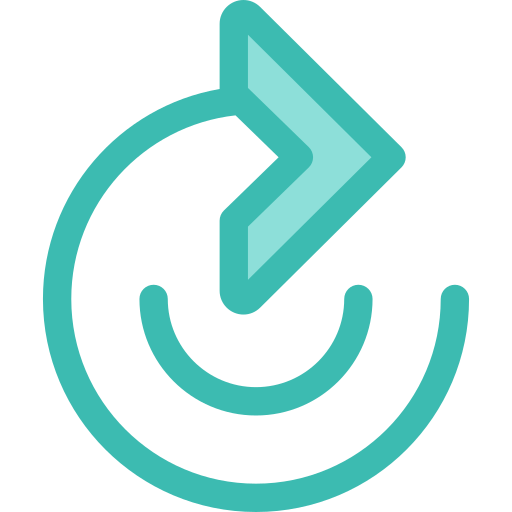
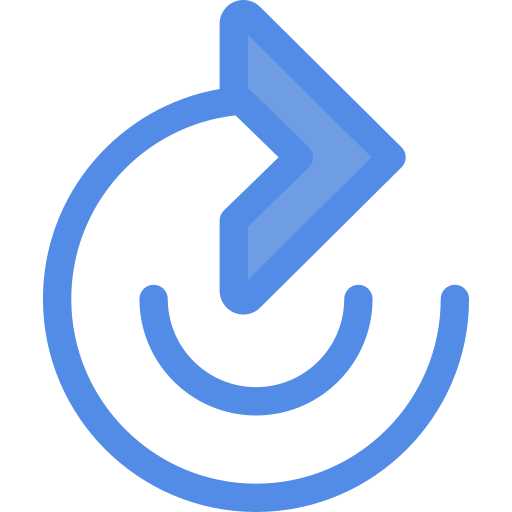
raise ticket update

Changed region(s): [[0.0625, 0.0, 0.9375, 1.0], [0.25, 0.5312, 0.75, 0.8125]]

diff --git a/templates/agent/client/order-page.html b/templates/agent/client/order-page.html
@@ -1199,23 +1199,42 @@
         {% endfor %}
         </div><!--right-bgwrapper--> 
 
-        <!-- RE-ORDER -->
+        <!-- raise ticket -->
         {% if order.order_status == 'ORDER_CLOSED' %}
             <br>
             <div class="order-card-column whitebg green-border clickable-cursor duplicate_order" data-id="{{order.evaluation.id}}"><!--order-card-column-->
                 <div class="card-innerwrapper"><!--card-innerwrapper-->
-                <div class="column-left"><img src="{% static "/files/images/card-reorder-icon.png" %}"></div>
+                <div class="column-left"><img src="{% static "/files/images/card-ticket-icon.png" %}"></div>
                 <div class="column-right"><!--column-right-->
                 <!-- <h1>Click To View</h1> -->
-                <h2 class="green-text"><label>Re-Order<span>
+                <h2 class="green-text"><label>Raise ticket<span>
                     <!-- <i class="fa fa-repeat" aria-hidden="true"></i> -->
                 </span></label></h2>
-                <p><label>Click to Re-Order <span></span></label></p>
+                <p><label>Click to raise ticket <span></span></label></p>
                 </div><!--column-right-->
                 </div><!--card-innerwrapper-->
             </div><!--order-card-column-->
         {% endif %}
+        <!-- raise ticket -->
+
         <!-- RE-ORDER -->
+        {% if order.order_status == 'ORDER_CLOSED' %}
+            <br>
+            <div class="order-card-column whitebg blue-border clickable-cursor duplicate_order" data-id="{{order.evaluation.id}}"><!--order-card-column-->
+                    <div class="card-innerwrapper"><!--card-innerwrapper-->
+                    <div class="column-left"><img src="{% static "/files/images/card-reorder-icon.png" %}"></div>
+                    <div class="column-right"><!--column-right-->
+                    <!-- <h1>Click To View</h1> -->
+                    <h2 class="blue-text"><label>Re-Order<span>
+                        <!-- <i class="fa fa-repeat" aria-hidden="true"></i> -->
+                    </span></label></h2>
+                    <p><label>Click to Re-Order <span></span></label></p>
+                    </div><!--column-right-->
+                    </div><!--card-innerwrapper-->
+                </div><!--order-card-column-->
+            {% endif %}
+            <!-- RE-ORDER -->
+
     </div><!--order-details-right-fixed-->
 </div><!--order-details-wrapper-->    
 </div><!--order-top-wrapper-->            